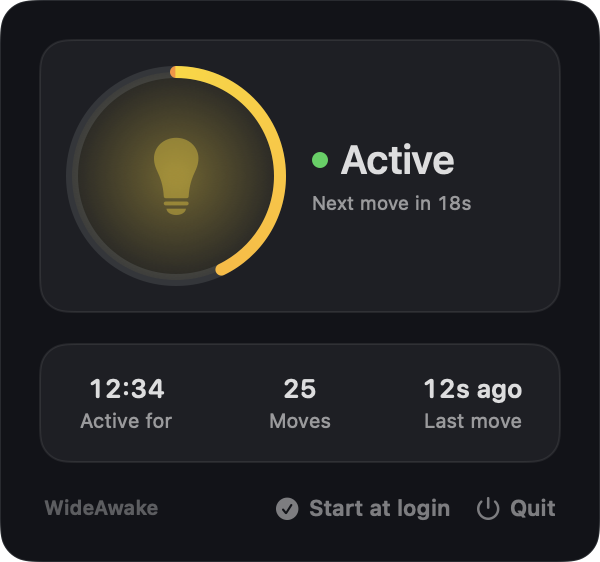
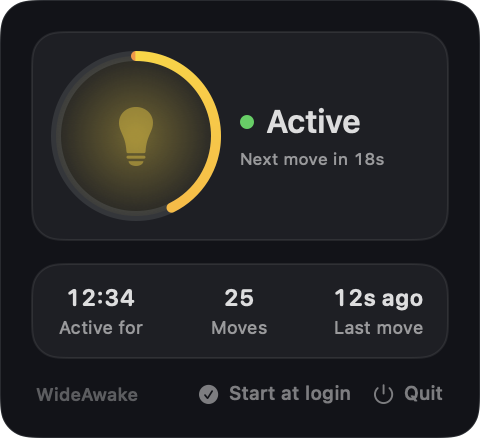
Make the popup smaller and refresh screenshots

diff --git a/main.swift b/main.swift
@@ -130,12 +130,12 @@ struct PopoverView: View {
         TimelineView(.animation(minimumInterval: 1.0 / 30, paused: !model.isActive)) { context in
             content(now: context.date)
         }
-        .frame(width: 300)
+        .frame(width: 240)
         .background(RoundedRectangle(cornerRadius: 16).fill(panelColor))
         .overlay(RoundedRectangle(cornerRadius: 16).stroke(Color.white.opacity(0.10), lineWidth: 1))
         // Timings measured from a reference recording: opens in ~0.15s from ~45% size with a tiny
         // overshoot; closes in ~0.2s shrinking toward the icon while fading.
-        .scaleEffect(model.presented ? 1 : 0.4, anchor: UnitPoint(x: model.arrowX / 300, y: 0))
+        .scaleEffect(model.presented ? 1 : 0.4, anchor: UnitPoint(x: model.arrowX / 240, y: 0))
         .animation(model.presented ? .spring(response: 0.24, dampingFraction: 0.72)
                                    : .easeIn(duration: 0.2), value: model.presented)
         .opacity(model.presented ? 1 : 0)
@@ -147,18 +147,18 @@ struct PopoverView: View {
         let remaining = model.nextMove.map { max(0, $0.timeIntervalSince(now)) } ?? model.interval
         let progress = model.isActive ? 1 - remaining / model.interval : 0
 
-        return VStack(spacing: 16) {
+        return VStack(spacing: 12) {
             top(remaining: remaining, progress: progress, trusted: trusted)
             stats(now: now)
             footer
         }
-        .padding(20)
+        .padding(16)
         .environment(\.colorScheme, .dark)
     }
 
     /// Bulb inside the countdown ring (tap to toggle), status beside it.
     private func top(remaining: TimeInterval, progress: Double, trusted: Bool) -> some View {
-        HStack(spacing: 16) {
+        HStack(spacing: 12) {
             Button {
                 // No withAnimation here: it would animate the text layout too. Only the bulb animates (below).
                 model.toggle()
@@ -166,19 +166,19 @@ struct PopoverView: View {
                 ZStack {
                     Circle()
                         .fill(RadialGradient(colors: [.yellow.opacity(model.isActive ? 0.35 : 0), .clear],
-                                             center: .center, startRadius: 4, endRadius: 60))
-                    Circle().stroke(Color.white.opacity(0.10), lineWidth: 6)
+                                             center: .center, startRadius: 3, endRadius: 46))
+                    Circle().stroke(Color.white.opacity(0.10), lineWidth: 5)
                     Circle()
                         .trim(from: 0, to: progress)
                         .stroke(AngularGradient(colors: [.yellow, .orange], center: .center),
-                                style: StrokeStyle(lineWidth: 6, lineCap: .round))
+                                style: StrokeStyle(lineWidth: 5, lineCap: .round))
                         .rotationEffect(.degrees(-90))
                     Image(systemName: model.isActive ? "lightbulb.fill" : "lightbulb")
-                        .font(.system(size: 34))
+                        .font(.system(size: 26))
                         .foregroundStyle(model.isActive ? Color.yellow : Color.white.opacity(0.55))
                         .symbolEffect(.pulse, isActive: model.isActive)
                 }
-                .frame(width: 104, height: 104)
+                .frame(width: 80, height: 80)
                 .contentShape(Circle())
                 .animation(.smooth, value: model.isActive)
             }
@@ -187,8 +187,8 @@ struct PopoverView: View {
 
             VStack(alignment: .leading, spacing: 4) {
                 HStack(spacing: 6) {
-                    Circle().fill(model.isActive ? Color.green : Color.white.opacity(0.3)).frame(width: 8, height: 8)
-                    Text(model.isActive ? "Active" : "Off").font(.system(size: 20, weight: .semibold)).lineLimit(1)
+                    Circle().fill(model.isActive ? Color.green : Color.white.opacity(0.3)).frame(width: 7, height: 7)
+                    Text(model.isActive ? "Active" : "Off").font(.system(size: 16, weight: .semibold)).lineLimit(1)
                 }
                 // The permission prompt lives in this line (not a separate banner) so the card never changes height.
                 if !trusted {
@@ -197,13 +197,13 @@ struct PopoverView: View {
                     }
                     .buttonStyle(.plain)
                     .help("Privacy & Security > Device Control and Data Access (called Accessibility on older macOS)")
-                    .font(.system(size: 12, weight: .semibold))
+                    .font(.system(size: 10.5, weight: .semibold))
                     .foregroundStyle(.orange)
                     .lineLimit(1)
                     .minimumScaleFactor(0.8)
                 } else {
                     Text(model.isActive ? "Next move in \(Int(remaining.rounded(.up)))s" : "Tap to start")
-                        .font(.system(size: 12))
+                        .font(.system(size: 10.5))
                         .foregroundStyle(.secondary)
                         .monospacedDigit()
                         .lineLimit(1)
@@ -213,8 +213,8 @@ struct PopoverView: View {
             // The text column takes whatever is left, so the ring never moves when the text changes.
             .frame(maxWidth: .infinity, alignment: .leading)
         }
-        .padding(16)
-        .frame(width: 260)
+        .padding(12)
+        .frame(width: 208)
         .card()
     }
 
@@ -225,18 +225,18 @@ struct PopoverView: View {
             stat("Last move", model.lastMove.map { ago(now.timeIntervalSince($0)) } ?? "-")
         }
         .opacity(model.isActive ? 1 : 0.5)
-        .padding(.vertical, 14)
-        .frame(width: 260)
+        .padding(.vertical, 10)
+        .frame(width: 208)
         .card()
     }
 
     private func stat(_ title: String, _ value: String) -> some View {
         VStack(spacing: 2) {
             Text(value)
-                .font(.system(size: 13, weight: .semibold, design: .rounded))
+                .font(.system(size: 11.5, weight: .semibold, design: .rounded))
                 .monospacedDigit()
                 .lineLimit(1).minimumScaleFactor(0.7)
-            Text(title).font(.system(size: 10)).foregroundStyle(.secondary).lineLimit(1)
+            Text(title).font(.system(size: 9)).foregroundStyle(.secondary).lineLimit(1)
         }
         .frame(maxWidth: .infinity)
     }
@@ -247,9 +247,9 @@ struct PopoverView: View {
             if let error = model.loginError {
                 Text(error).font(.system(size: 10)).foregroundStyle(.red).frame(maxWidth: .infinity, alignment: .leading)
             }
-            HStack(spacing: 12) {
+            HStack(spacing: 10) {
                 Text("WideAwake")
-                    .font(.system(size: 10, weight: .semibold))
+                    .font(.system(size: 9, weight: .medium))
                     .foregroundStyle(muted.opacity(0.7))
                     .fixedSize()
                 Spacer(minLength: 0)
@@ -267,7 +267,7 @@ struct PopoverView: View {
                 }
             }
             .buttonStyle(.plain)
-            .font(.system(size: 11, weight: .semibold))
+            .font(.system(size: 9.5, weight: .medium))
             .foregroundStyle(muted)
             .fixedSize(horizontal: false, vertical: true)
         }
@@ -345,7 +345,7 @@ final class AppDelegate: NSObject, NSApplicationDelegate {
             model.nextMove = Date(timeIntervalSinceNow: 18)
             model.moveCount = 25
         }
-        let size = hosting.sizeThatFits(in: CGSize(width: 300, height: 1000))
+        let size = hosting.sizeThatFits(in: CGSize(width: 240, height: 1000))
         let window = NSWindow(contentRect: NSRect(x: 200, y: 200, width: size.width, height: size.height),
                               styleMask: .borderless, backing: .buffered, defer: false)
         window.isOpaque = false
@@ -375,8 +375,8 @@ final class AppDelegate: NSObject, NSApplicationDelegate {
         let buttonRect = window.convertToScreen(button.convert(button.bounds, to: nil))
         hosting.view.layoutSubtreeIfNeeded()
         // With automatic sizing off, ask SwiftUI for the content size directly (once), with a safe fallback.
-        let measured = hosting.sizeThatFits(in: CGSize(width: 300, height: 1000))
-        let size = fixedSize ?? (measured.width > 50 && measured.height > 50 ? measured : NSSize(width: 300, height: 300))
+        let measured = hosting.sizeThatFits(in: CGSize(width: 240, height: 1000))
+        let size = fixedSize ?? (measured.width > 50 && measured.height > 50 ? measured : NSSize(width: 240, height: 250))
         fixedSize = size
 
         var frame = NSRect(x: buttonRect.midX - size.width / 2, y: buttonRect.minY - size.height - 3,
